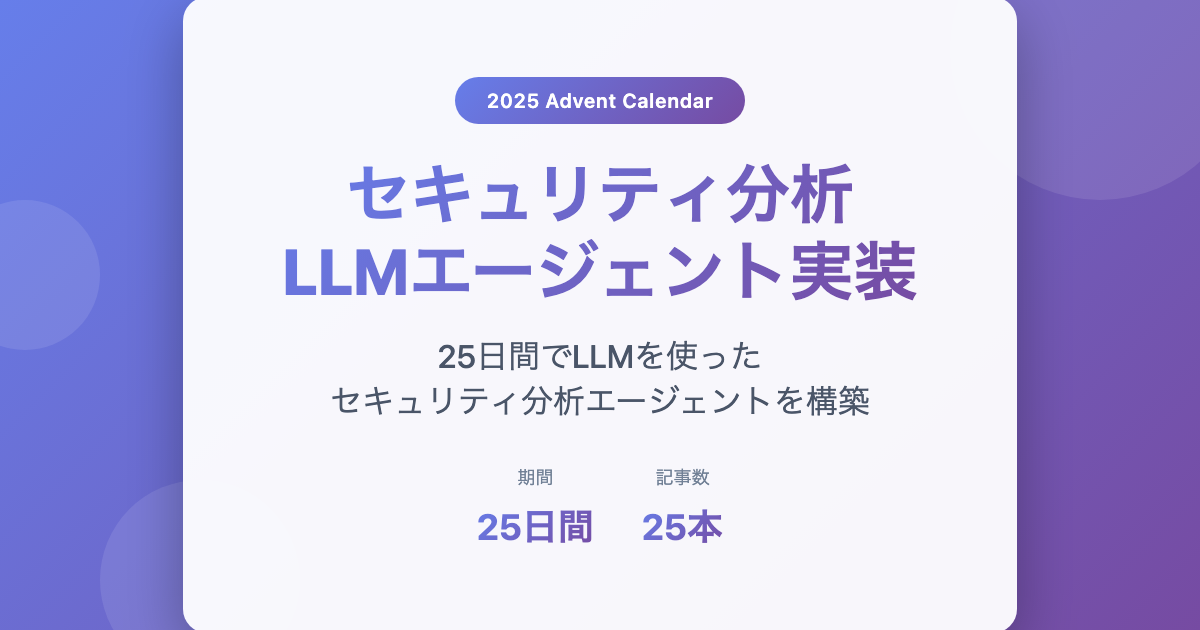
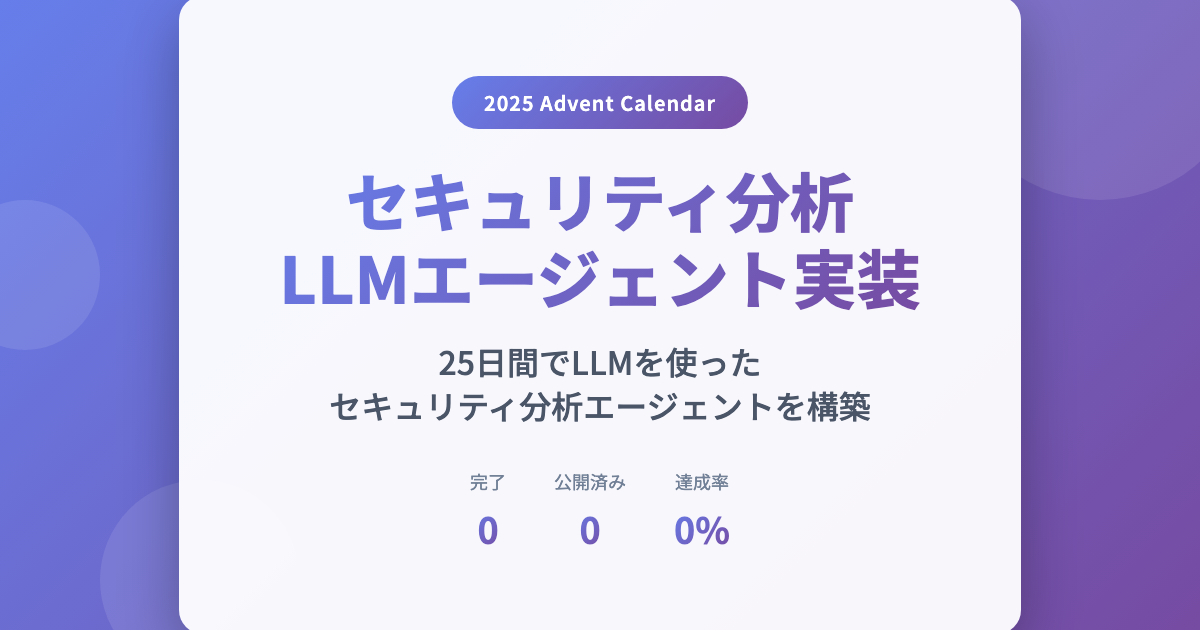
feat(ogp): update OGP generation with new font styles and improved loading logic

diff --git a/dashboard/scripts/generate-ogp.html b/dashboard/scripts/generate-ogp.html
@@ -3,6 +3,9 @@
 <head>
     <meta charset="UTF-8">
     <meta name="viewport" content="width=1200, height=630">
+    <link rel="preconnect" href="https://fonts.googleapis.com">
+    <link rel="preconnect" href="https://fonts.gstatic.com" crossorigin>
+    <link href="https://fonts.googleapis.com/css2?family=Noto+Sans+JP:wght@400;500;600;700;800&display=swap" rel="stylesheet">
     <style>
         * {
             margin: 0;
@@ -17,7 +20,7 @@
             display: flex;
             align-items: center;
             justify-content: center;
-            font-family: -apple-system, BlinkMacSystemFont, 'Segoe UI', 'Noto Sans JP', sans-serif;
+            font-family: 'Noto Sans JP', sans-serif;
             position: relative;
             overflow: hidden;
         }
